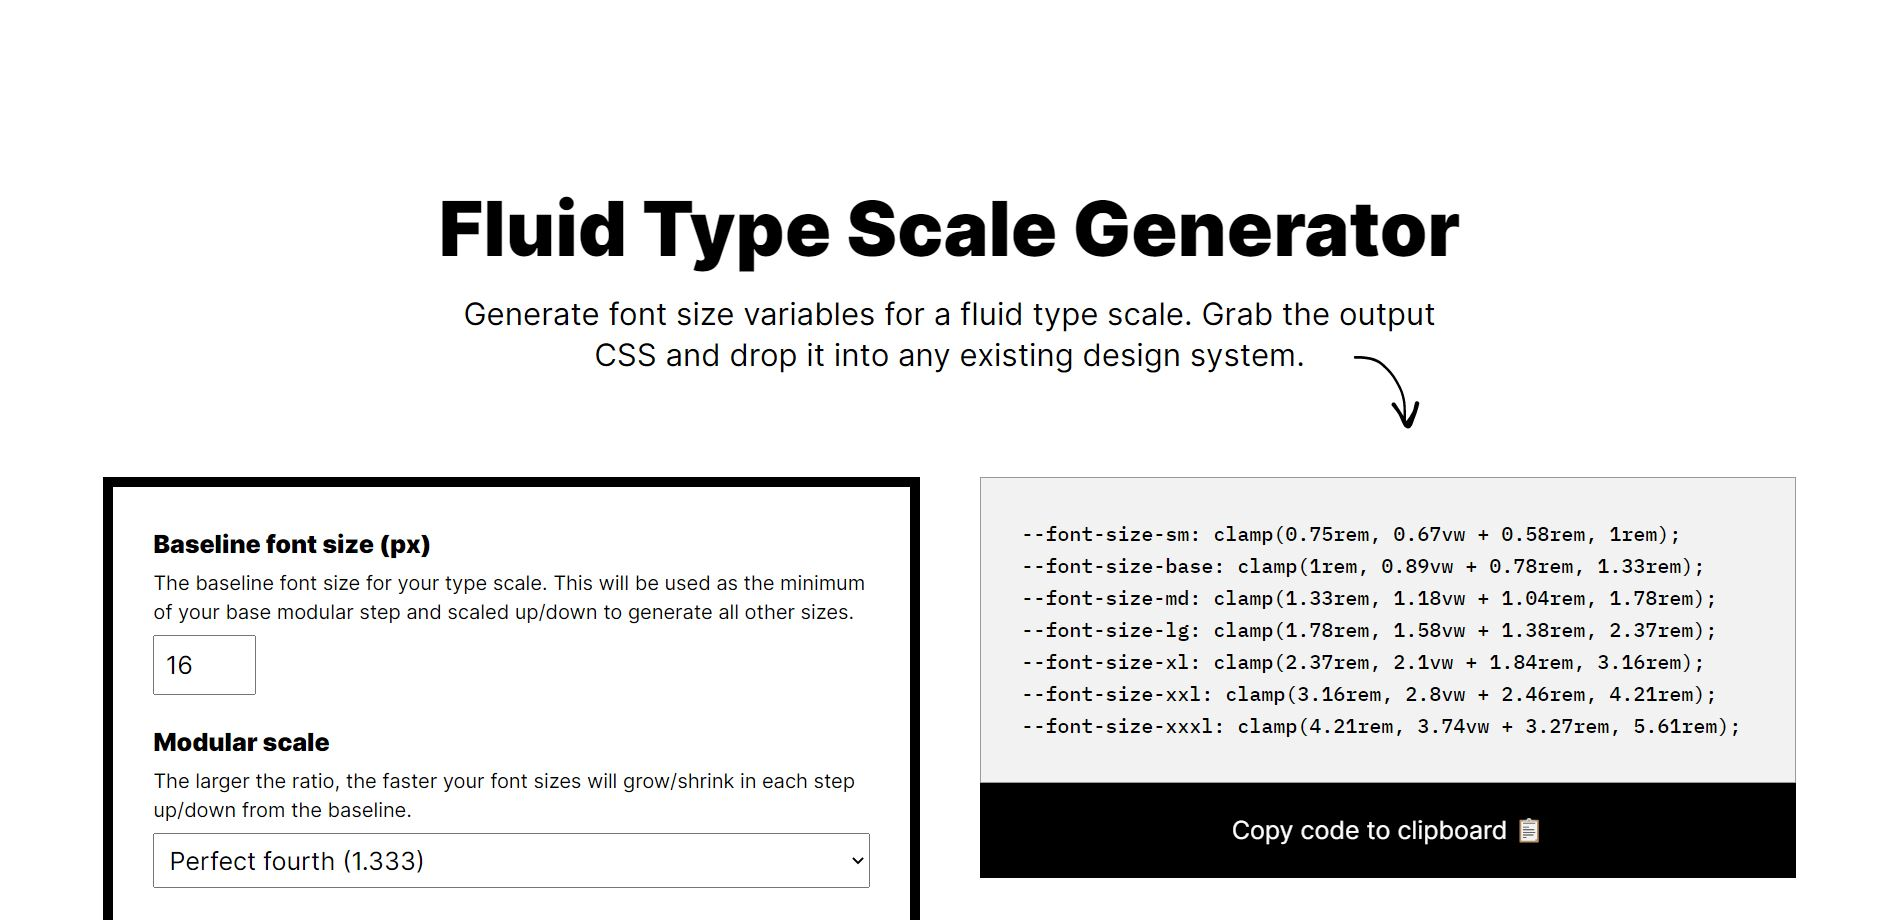
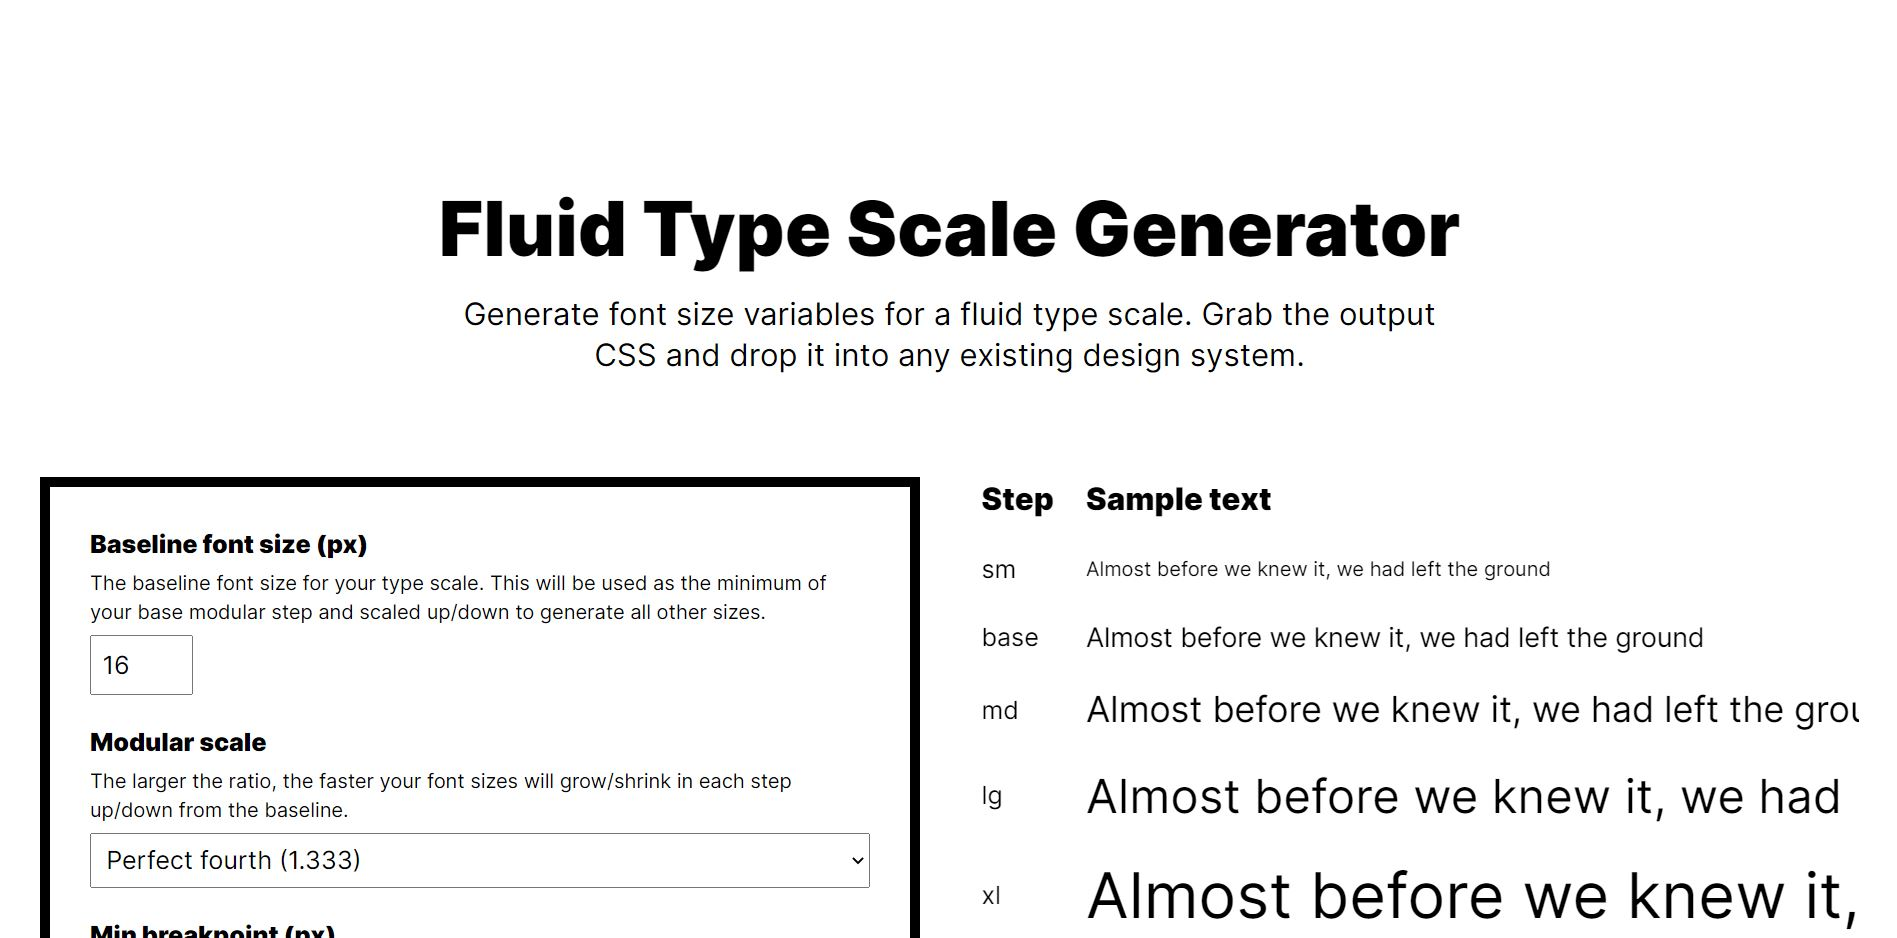
Rearrange layout to position preview to the right of the form

diff --git a/src/assets/styles/partials/pages/_index.scss b/src/assets/styles/partials/pages/_index.scss
@@ -2,11 +2,11 @@
 @import "../mixins";
 
 body {
-  padding: clamped(12px, 48px);
+  padding: clamped(12px, 32px);
   padding-top: clamped(48px, 100px);
   padding-bottom: 0;
   font-size: var(--fs-base);
-  max-width: 1450px;
+  max-width: 1800px;
   margin: 0 auto;
 }
 
@@ -16,61 +16,6 @@ body {
 
   header {
     padding: clamped(12px, 48px) 0;
-  }
-}
-
-.content {
-  display: grid;
-  gap: 48px;
-  grid-template-columns: 1fr;
-  grid-auto-flow: row;
-  @include desktop-lg {
-    grid-template-columns: repeat(2, 1fr);
-  }
-}
-
-.result {
-  display: grid;
-  gap: 32px;
-  grid-template-columns: minmax(0, 1fr);
-  grid-template-rows: min-content 1fr;
-  @include desktop-lg {
-    height: max-content;
-    position: sticky;
-    top: 32px;
-  }
-}
-
-#output {
-  border: solid 1px var(--color-border);
-  background-color: var(--color-surface-medium);
-  white-space: pre;
-  display: flex;
-  font-family: var(--ff-code);
-  font-weight: var(--fw-code-regular);
-  font-size: var(--fs-sm);
-  overflow: auto;
-  height: 250px;
-  padding: clamped(16px, 32px);
-  user-select: all;
-  line-height: 1.6;
-}
-
-#copy-to-clipboard {
-  width: 100%;
-  padding: 24px;
-  text-align: center;
-
-  &[data-copied="false"] {
-    &::before {
-      content: "Copy code to clipboard 📋";
-    }
-  }
-
-  &[data-copied="true"] {
-    &::before {
-      content: "Copied! 🎉";
-    }
   }
 }
 
@@ -84,27 +29,30 @@ body {
   font-size: var(--fs-md);
   max-width: 50ch;
   margin: 0 auto;
-  position: relative;
-  @include desktop-lg {
-    &::after {
-      content: "";
-      position: absolute;
-      bottom: 0;
-      right: 0;
-      width: 64px;
-      height: 64px;
-      background-image: url("/assets/images/arrow.svg");
-      background-size: 100% 100%;
-      background-repeat: no-repeat;
-      background-position: center;
-      transform: rotate(14deg) translate(0%, 70%);
-    }
-  }
 }
 
 .title,
 .subtitle {
   text-align: center;
+}
+
+.stack {
+  display: grid;
+  gap: clamped(24px, 48px);
+  grid-template-columns: minmax(0, 1fr);
+  grid-auto-flow: row;
+  @include desktop-lg {
+    grid-template-columns: repeat(2, 1fr);
+  }
+}
+
+.form {
+  display: grid;
+  gap: 24px;
+  margin: 0;
+  padding: clamped(16px, 32px);
+  border: none;
+  border: solid 8px var(--color-surface-dark);
 }
 
 label {
@@ -129,8 +77,8 @@ input[type="number"] {
 }
 
 input[type="checkbox"] {
-  width: 22px;
-  height: 22px;
+  width: clamped(11px, 22px);
+  height: clamped(11px, 22px);
 }
 
 input,
@@ -139,22 +87,45 @@ textarea {
   padding: 8px;
 }
 
-fieldset {
-  display: grid;
-  gap: 24px;
-  margin: 0;
+#output {
+  border: solid 1px var(--color-border);
+  background-color: var(--color-surface-medium);
+  white-space: pre;
+  display: flex;
+  font-family: var(--ff-code);
+  font-weight: var(--fw-code-regular);
+  font-size: var(--fs-sm);
+  overflow: auto;
   padding: clamped(16px, 32px);
-  border: none;
-  border: solid 8px var(--color-surface-dark);
+  user-select: all;
+  line-height: 1.6;
 }
 
-footer {
+#copy-to-clipboard {
+  width: 100%;
+  padding: 24px;
+  text-align: center;
+
+  &[data-copied="false"] {
+    &::before {
+      content: "Copy code to clipboard 📋";
+    }
+  }
+
+  &[data-copied="true"] {
+    &::before {
+      content: "Copied! 🎉";
+    }
+  }
+}
+
+.page-footer {
   display: flex;
   justify-content: center;
   align-items: center;
   flex-direction: column;
   gap: 16px;
-  padding: clamped(48px, 96px) 0 clamped(16px, 32px);
+  padding: clamped(16px, 32px);
   text-align: center;
   font-size: var(--fs-sm);
 
@@ -219,42 +190,39 @@ footer {
 }
 
 #preview {
-  margin-top: clamped(16px, 32px);
-  overflow: auto;
-
-  table {
-    margin-top: clamped(16px, 32px);
+  max-height: 100vh;
+  @include desktop-lg {
+    height: max-content;
+    position: sticky;
+    top: 32px;
   }
 
   &,
   table {
     max-width: 100%;
     width: 100%;
+    overflow: auto;
+  }
+
+  table {
+    margin: 0 calc(-1 * #{clamped(6px, 12px)});
+  }
+
+  th,
+  td {
+    border: none;
+    padding: clamped(6px, 12px);
   }
 
   th {
     font-size: var(--fs-md);
     text-align: start;
     font-weight: var(--fw-body-bold);
+    padding-top: 0;
   }
 
-  th,
-  td {
-    padding: clamped(8px, 16px) 0;
-    border: none;
-  }
-
-  .preview-result,
-  th:nth-child(2) {
-    padding: clamped(8px, 16px) clamped(16px, 32px);
-  }
-
-  .preview-result {
+  td:nth-child(2) {
     width: 100%;
     white-space: nowrap;
-
-    &:focus {
-      outline: solid 4px var(--color-surface-dark);
-    }
   }
 }

diff --git a/src/_pages/index.html b/src/_pages/index.html
@@ -9,8 +9,8 @@ eleventyComputed:
     <h1 class="title">{{ site.title }}</h1>
     <p class="subtitle">Generate font size variables for a fluid type scale. Grab the output CSS and drop it into any existing design system.</p>
   </header>
-  <div class="content">
-    <fieldset>
+  <div class="stack">
+    <fieldset class="form">
       <label>
         Baseline font size (px)
         <span class="label-description">The baseline font size for your type scale. This will be used as the minimum of your base modular step and scaled up/down to generate all other sizes.</span>
@@ -67,30 +67,30 @@ eleventyComputed:
         <textarea id="input-preview-text">Almost before we knew it, we had left the ground</textarea>
       </label>
     </fieldset>
-    <div class="result">
-      <div>
-        <output id="output" aria-live="polite"></output>
-        <button type="button" id="copy-to-clipboard" aria-label="Copy code to clipboard" data-copied="false"></button>
-      </div>
-      <div>
-        <h2>How it works</h2>
-        <p>A <a href="https://every-layout.dev/rudiments/modular-scale/" rel="noreferrer noopener" target="_blank">modular type scale</a> consists of a baseline font size and proportionally smaller and larger font sizes. In a fluid type scale, each modular step has a minimum, maximum, and preferred size. We leverage CSS <code>clamp</code> to generate a set of font size variables that scale linearly between their minimum and maximum sizes.</p>
-      </div>
+    <div id="preview">
+      <table>
+        <thead>
+          <tr>
+            <th scope="col" class="preview-th-step">Step</th>
+            <th scope="col" class="preview-th-text">Sample text</th>
+          </tr>
+        </thead>
+        <tbody></tbody>
+      </table>
     </div>
   </div>
-  <div id="preview">
-    <h2>Preview</h2>
-    <table>
-      <thead>
-        <tr>
-          <th scope="col">Step</th>
-          <th scope="col">Sample text</th>
-        </tr>
-      </thead>
-      <tbody></tbody>
-    </table>
+  <div class="stack">
+    <div>
+      <output id="output" aria-live="polite"></output>
+      <button type="button" id="copy-to-clipboard" aria-label="Copy code to clipboard" data-copied="false"></button>
+    </div>
+    <div>
+      <h2>How it works</h2>
+      <p>A <a href="https://every-layout.dev/rudiments/modular-scale/" rel="noreferrer noopener" target="_blank">modular type scale</a> consists of a baseline font size and proportionally smaller and larger font sizes on either end of the baseline. Traditional design systems use static font sizing, where each step has a fixed font size at every viewport width.</p>
+      <p>By contrast, in a fluid type scale, each modular step has a minimum, maximum, and variable font size. We can leverage CSS <code>clamp</code> to generate a set of font size variables that scale linearly between their minimum and maximum sizes, with mathematical precision.</p>
+    </div>
   </div>
-  <footer>
+  <footer class="page-footer">
     <span>Created by <a href="https://www.aleksandrhovhannisyan.com/" rel="noreferrer noopener" target="_blank">Aleksandr Hovhannisyan</a> using the <a href="https://github.com/AleksandrHovhannisyan/11ty-sass-images-seo" rel="noreferrer noopener" target="_blank">11ty-sass-images-seo</a> starter.</span>
     <ul class="socials" aria-label="Social media">
       {%- assign networks = socials | entries %}
